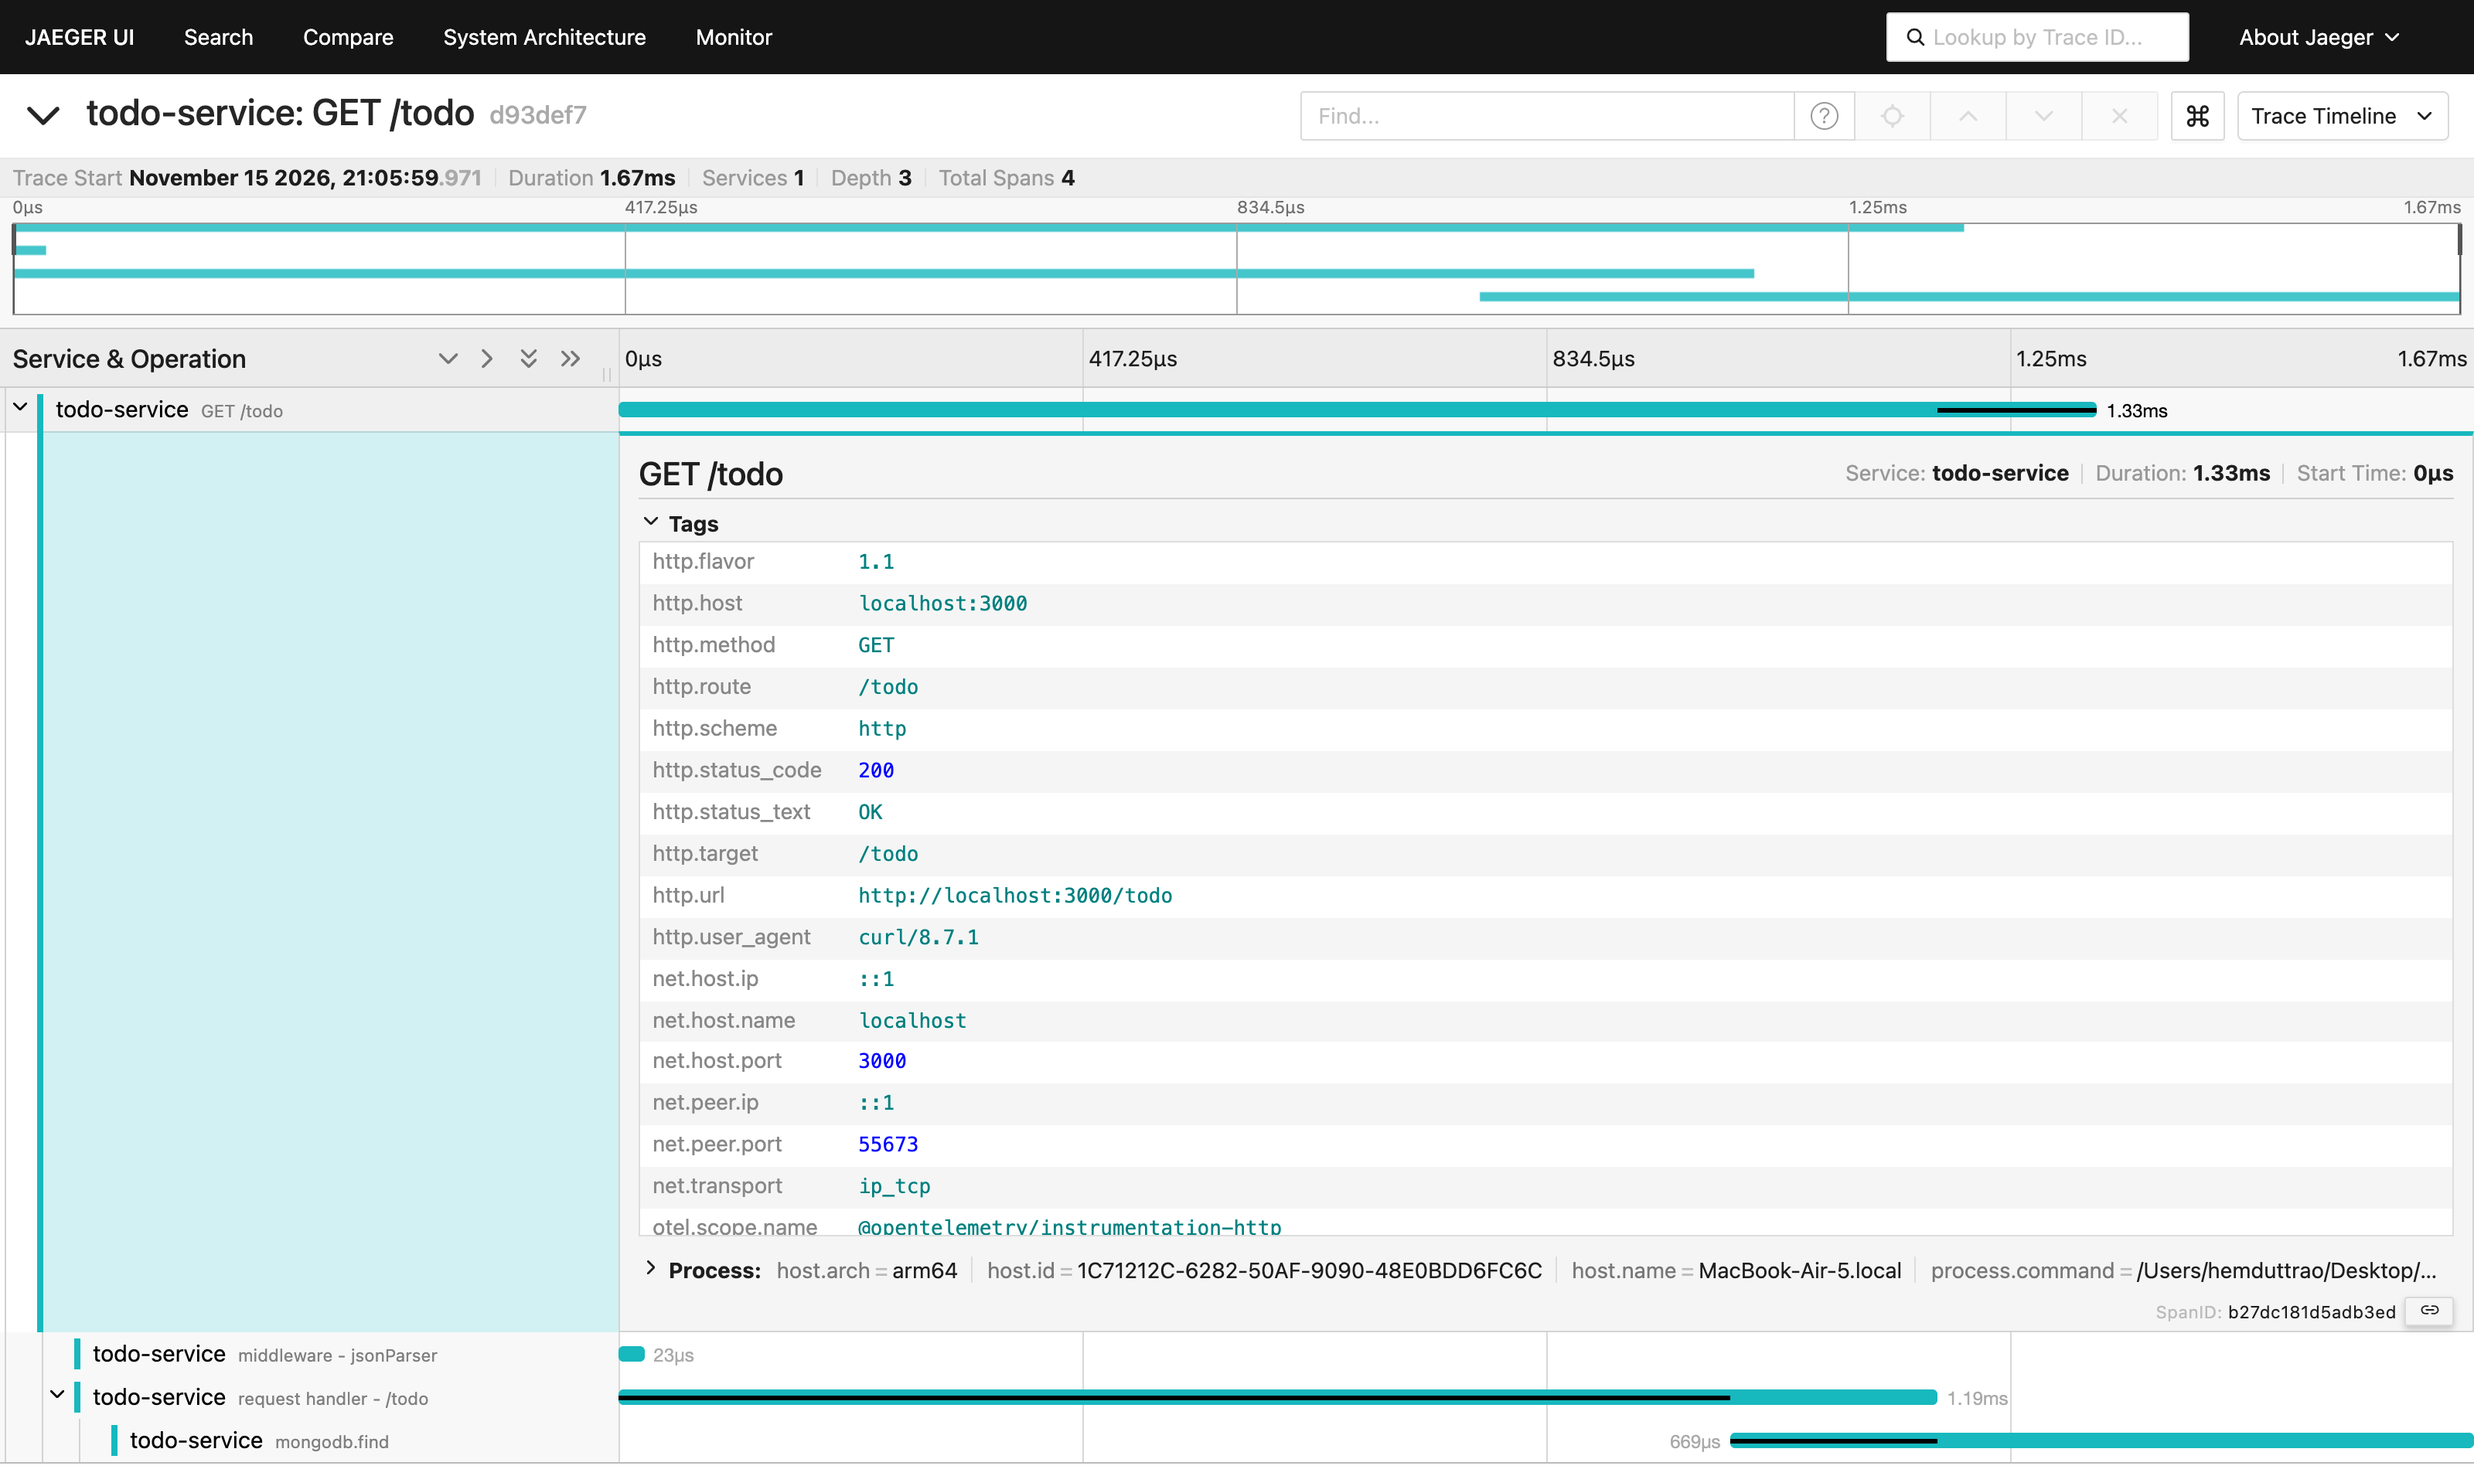
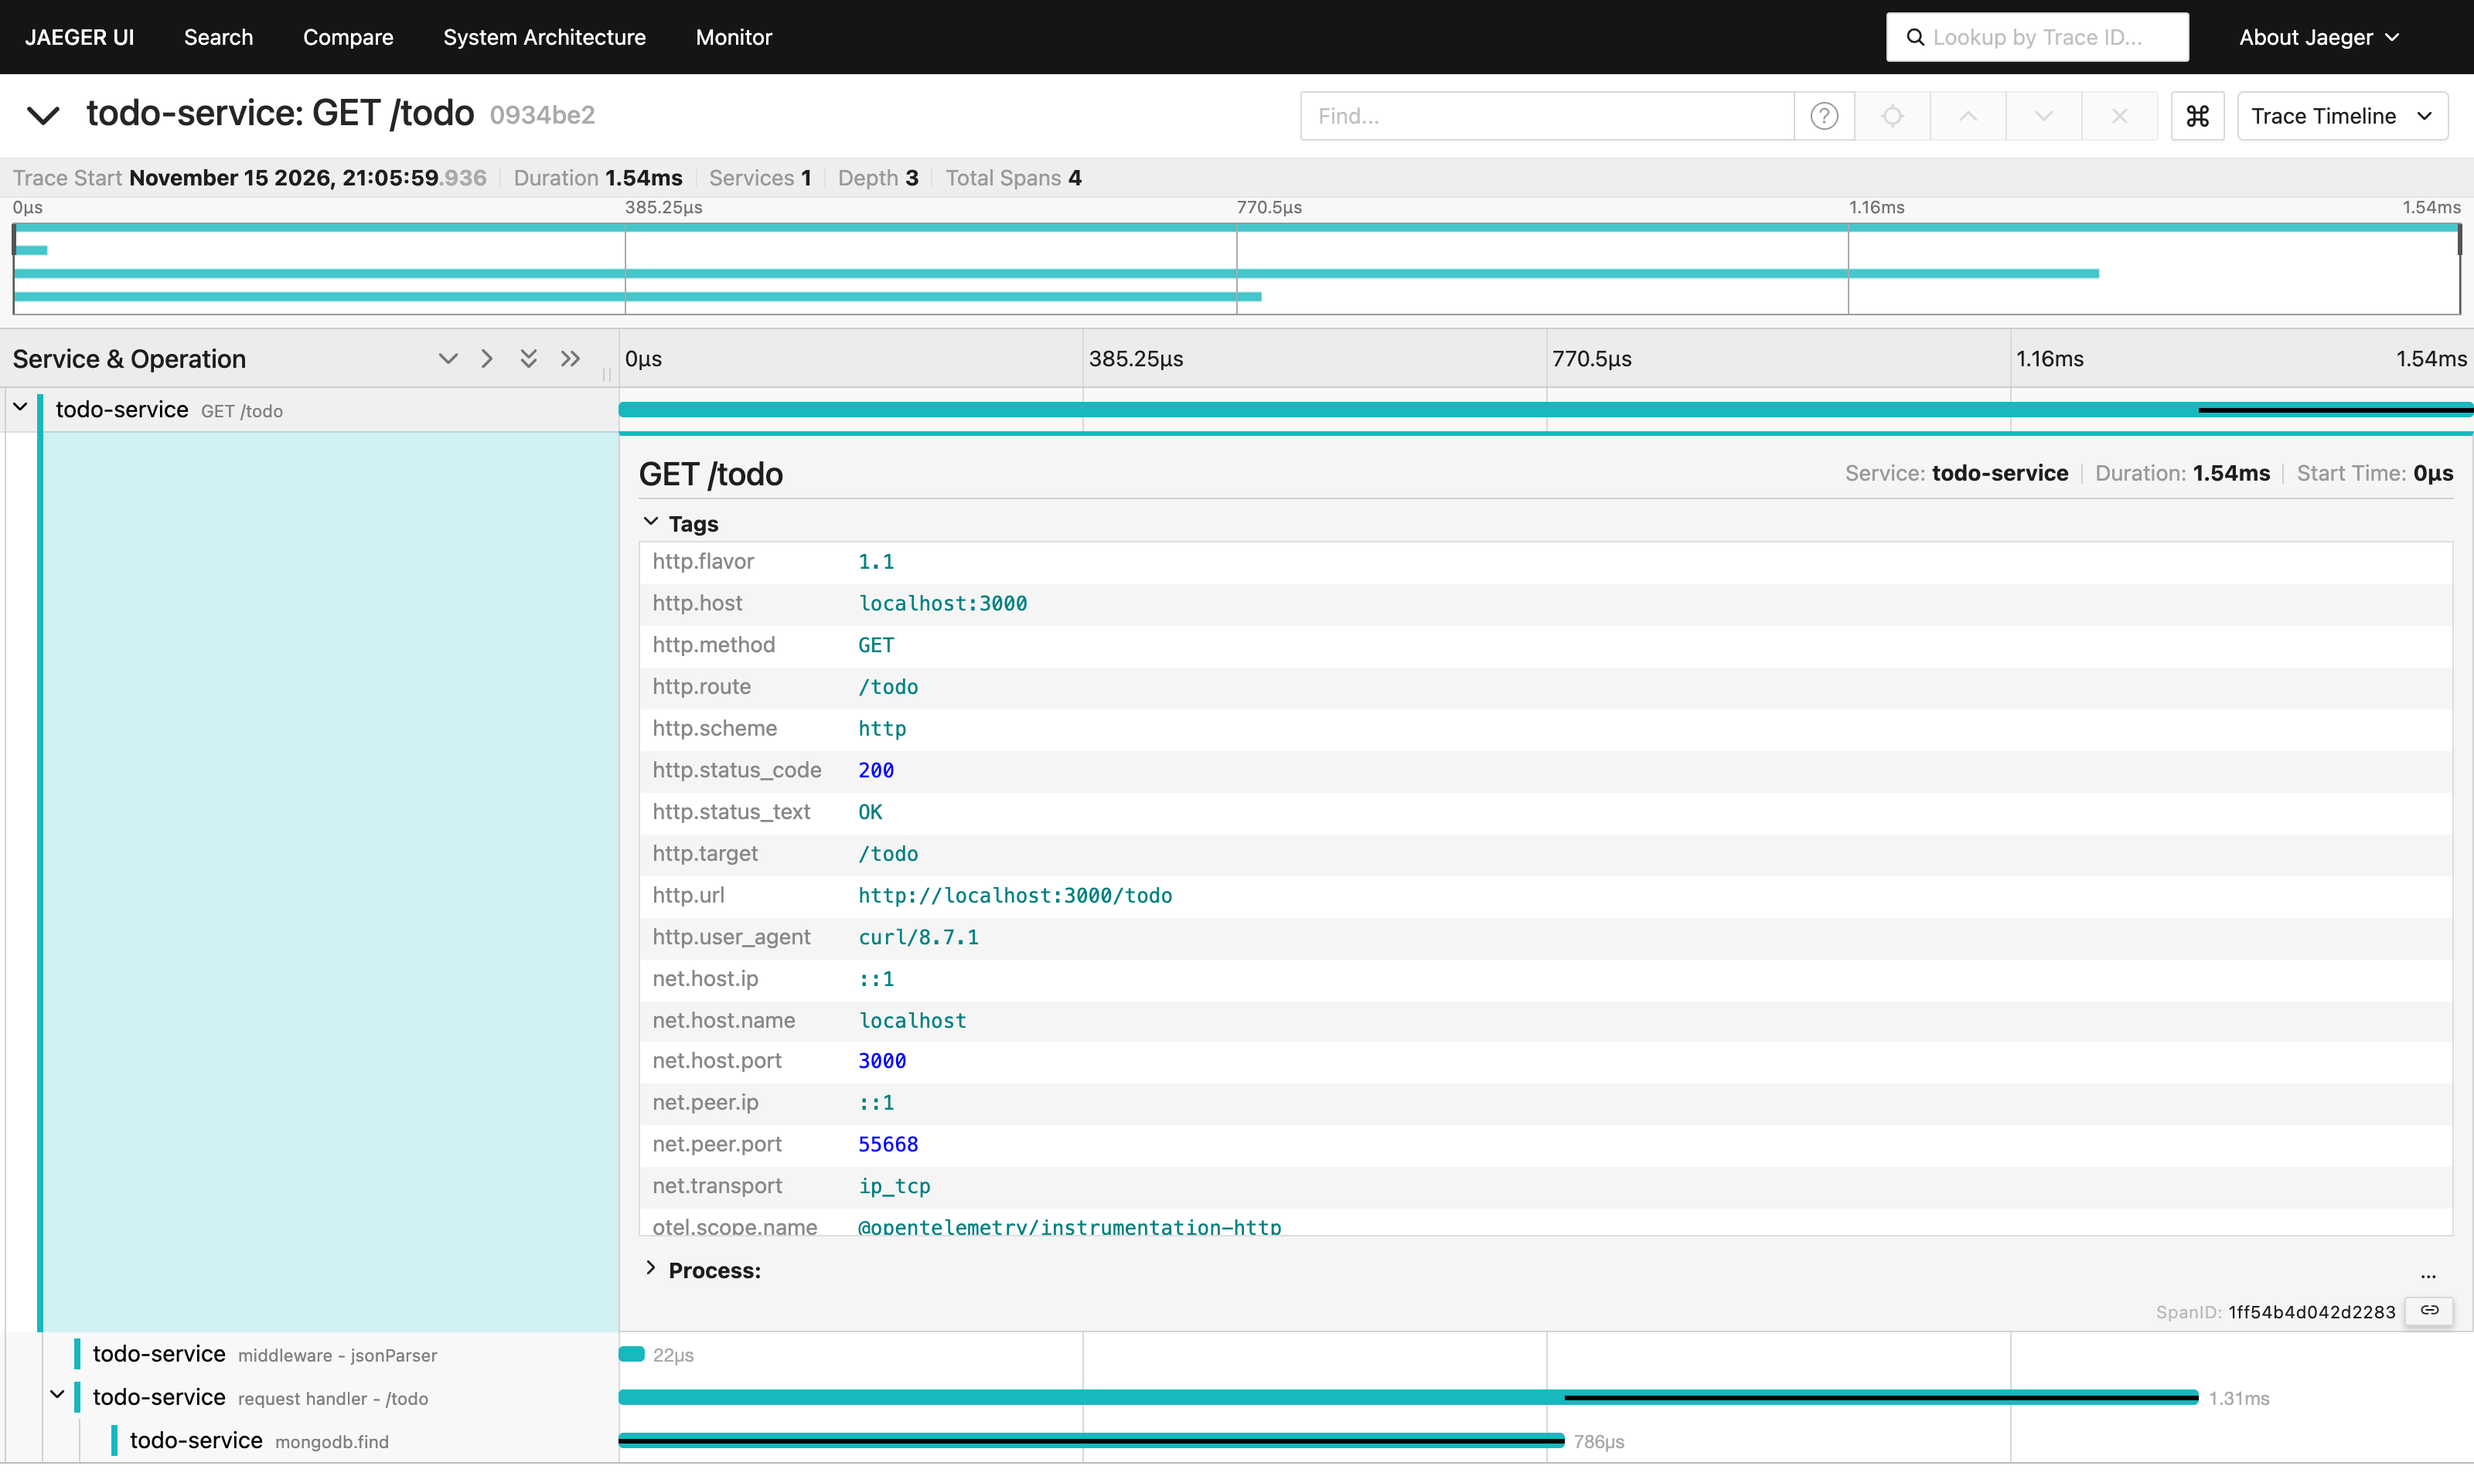
Update screenshots and note changes from starter code

diff --git a/README.md b/README.md
@@ -26,6 +26,8 @@ curl http://localhost:3000/todo/42   # 404
 - `index.js`: Express server that seeds MongoDB and serves `GET /todo` and `GET /todo/:id`
 - `tracing.js`: OpenTelemetry Node SDK setup. Traces go to Jaeger (OTLP/HTTP on port 4318) and metrics print to the console
 
+Changes from the provided starter code: `tracing.js` uses the OTLP exporter and relies on `getNodeAutoInstrumentations()` alone, because it already includes the HTTP, Express and MongoDB instrumentations. `index.js` clears the seed data on startup so restarts don't create duplicates, and returns 404 for unknown ids.
+
 ## Screenshots
 
 | Search | Request trace |
